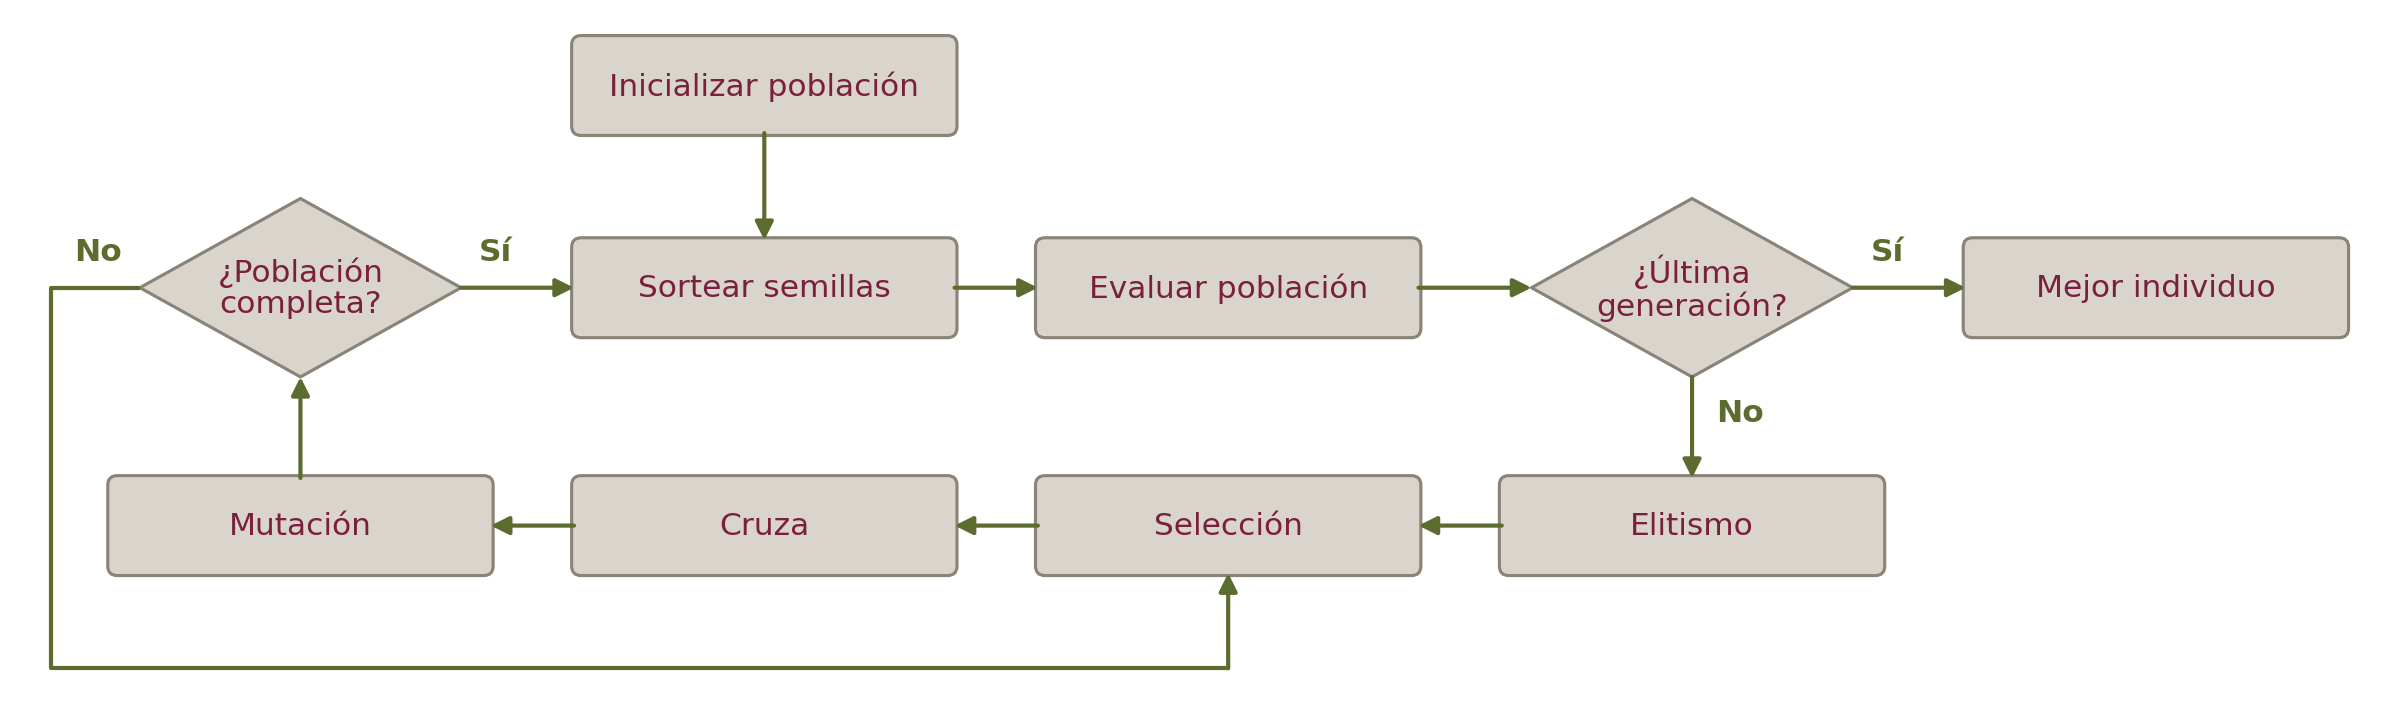
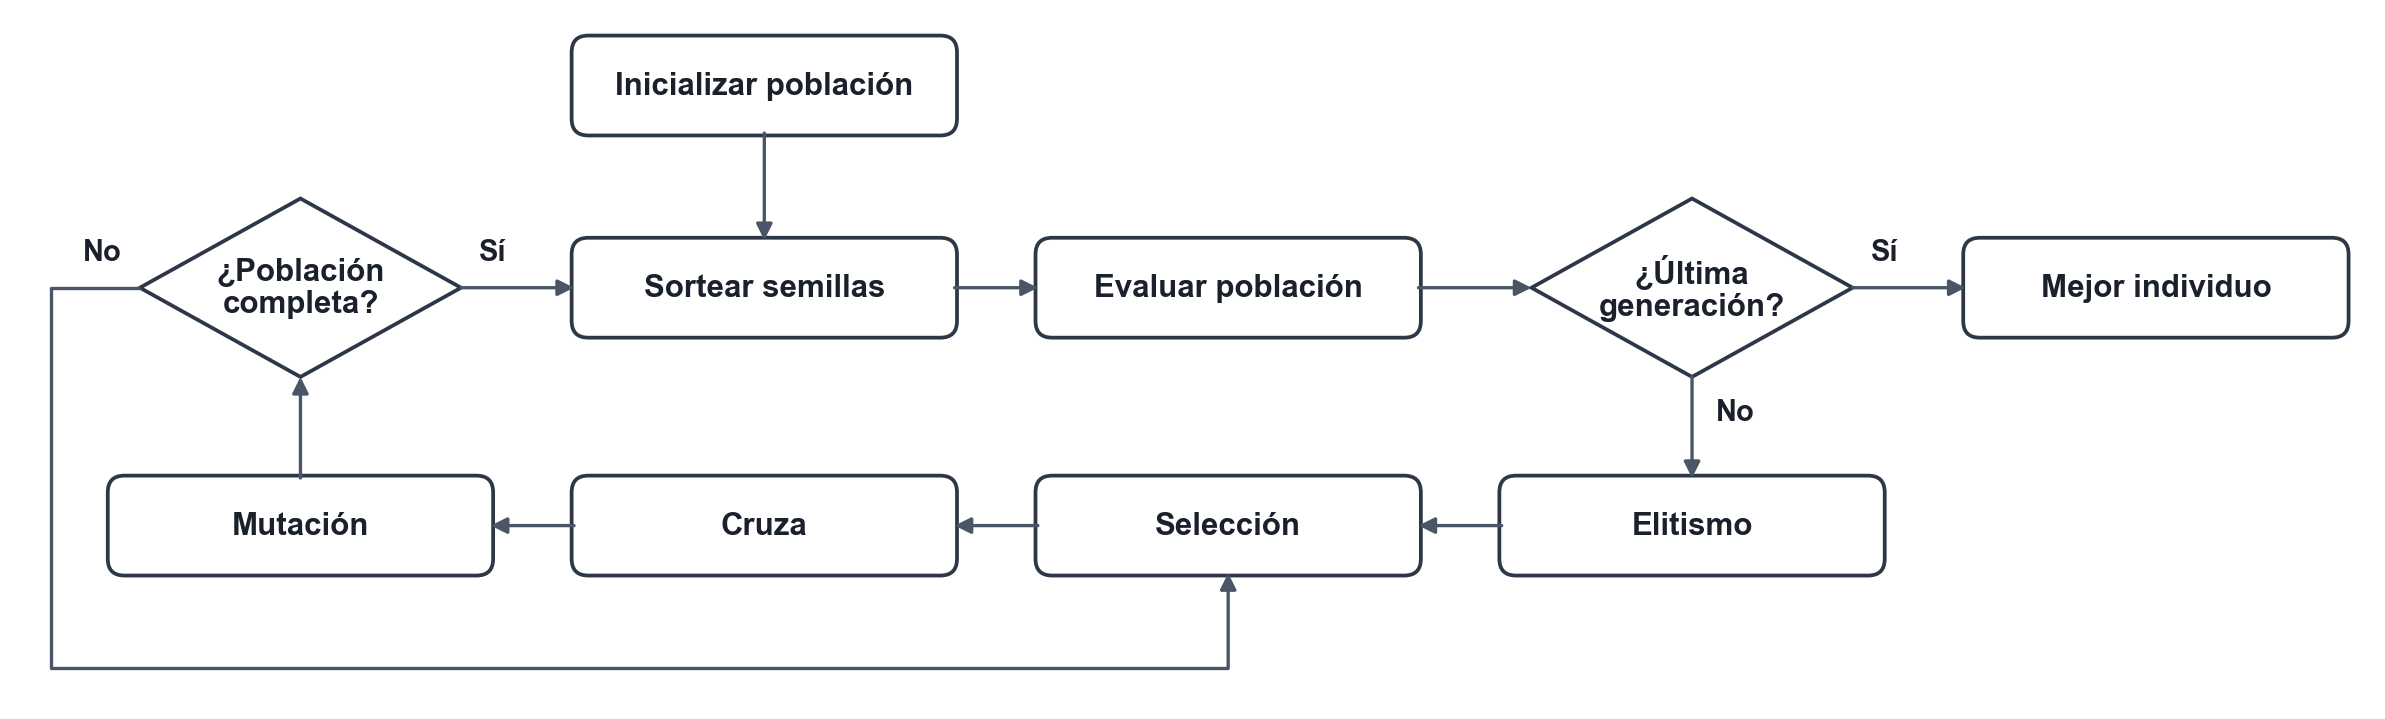
Uptade genetic algorithm diagram

diff --git a/python/plot/diagrama_flujo_ga.py b/python/plot/diagrama_flujo_ga.py
@@ -26,10 +26,16 @@ from matplotlib.patches import FancyBboxPatch, Polygon
 sys.path.insert(0, str(Path(__file__).resolve().parent))
 import estilo
 
-RELLENO = "#d9d4cc"
-BORDE = "#8a8378"
-TEXTO = "#7a1f3d"
-FLECHA = "#5c6b2e"
+# Mismo formato que el diagrama de modulos (docs/uml/modulos.puml): Helvetica,
+# nombres en negrita, cajas blancas con borde oscuro y flechas grises. Arial va
+# primero porque matplotlib solo lee la cara regular de Helvetica.ttc y la
+# negrita no se veria; es practicamente la misma letra.
+FUENTE_FAMILIA = ["Arial", "Helvetica", "DejaVu Sans"]
+RELLENO = "#FFFFFF"
+BORDE = "#2D3748"
+TEXTO = "#1A202C"
+FLECHA = "#4A5568"
+ETIQUETA = TEXTO
 
 ANCHO_CAJA = 3.2
 ALTO_CAJA = 0.8
@@ -75,28 +81,28 @@ def dibujar_nodo(ax, clave):
     x, y = centro(clave)
     if tipo == "caja":
         forma = FancyBboxPatch((x - ANCHO_CAJA / 2, y - ALTO_CAJA / 2), ANCHO_CAJA, ALTO_CAJA,
-                               boxstyle="round,pad=0.02,rounding_size=0.08")
+                               boxstyle="round,pad=0.02,rounding_size=0.14")
     else:
         dx, dy = MEDIO_DIAMANTE
         forma = Polygon([(x, y + dy), (x + dx, y), (x, y - dy), (x - dx, y)], closed=True)
-    forma.set(facecolor=RELLENO, edgecolor=BORDE, linewidth=1.5)
+    forma.set(facecolor=RELLENO, edgecolor=BORDE, linewidth=1.8)
     ax.add_patch(forma)
     ax.text(x, y, texto, ha="center", va="center", color=TEXTO, fontsize=FUENTE,
-            linespacing=1.1)
+            fontfamily=FUENTE_FAMILIA, fontweight="bold", linespacing=1.1)
 
 
 def flecha(ax, puntos):
     """Polilinea con punta de flecha en el ultimo tramo."""
     xs, ys = zip(*puntos)
-    ax.plot(xs[:-1], ys[:-1], color=FLECHA, linewidth=2, solid_capstyle="butt")
+    ax.plot(xs[:-1], ys[:-1], color=FLECHA, linewidth=1.6, solid_capstyle="butt")
     ax.annotate("", xy=puntos[-1], xytext=puntos[-2],
-                arrowprops=dict(arrowstyle="-|>", color=FLECHA, linewidth=2,
-                                mutation_scale=18, shrinkA=0, shrinkB=0))
+                arrowprops=dict(arrowstyle="-|>", color=FLECHA, linewidth=1.6,
+                                mutation_scale=16, shrinkA=0, shrinkB=0))
 
 
 def etiqueta(ax, x, y, texto, ha="center"):
-    ax.text(x, y, texto, ha=ha, va="center", color=FLECHA, fontsize=FUENTE,
-            fontweight="bold")
+    ax.text(x, y, texto, ha=ha, va="center", color=ETIQUETA, fontsize=FUENTE - 1,
+            fontfamily=FUENTE_FAMILIA, fontweight="bold")
 
 
 def horizontal(ax, desde, hasta):
